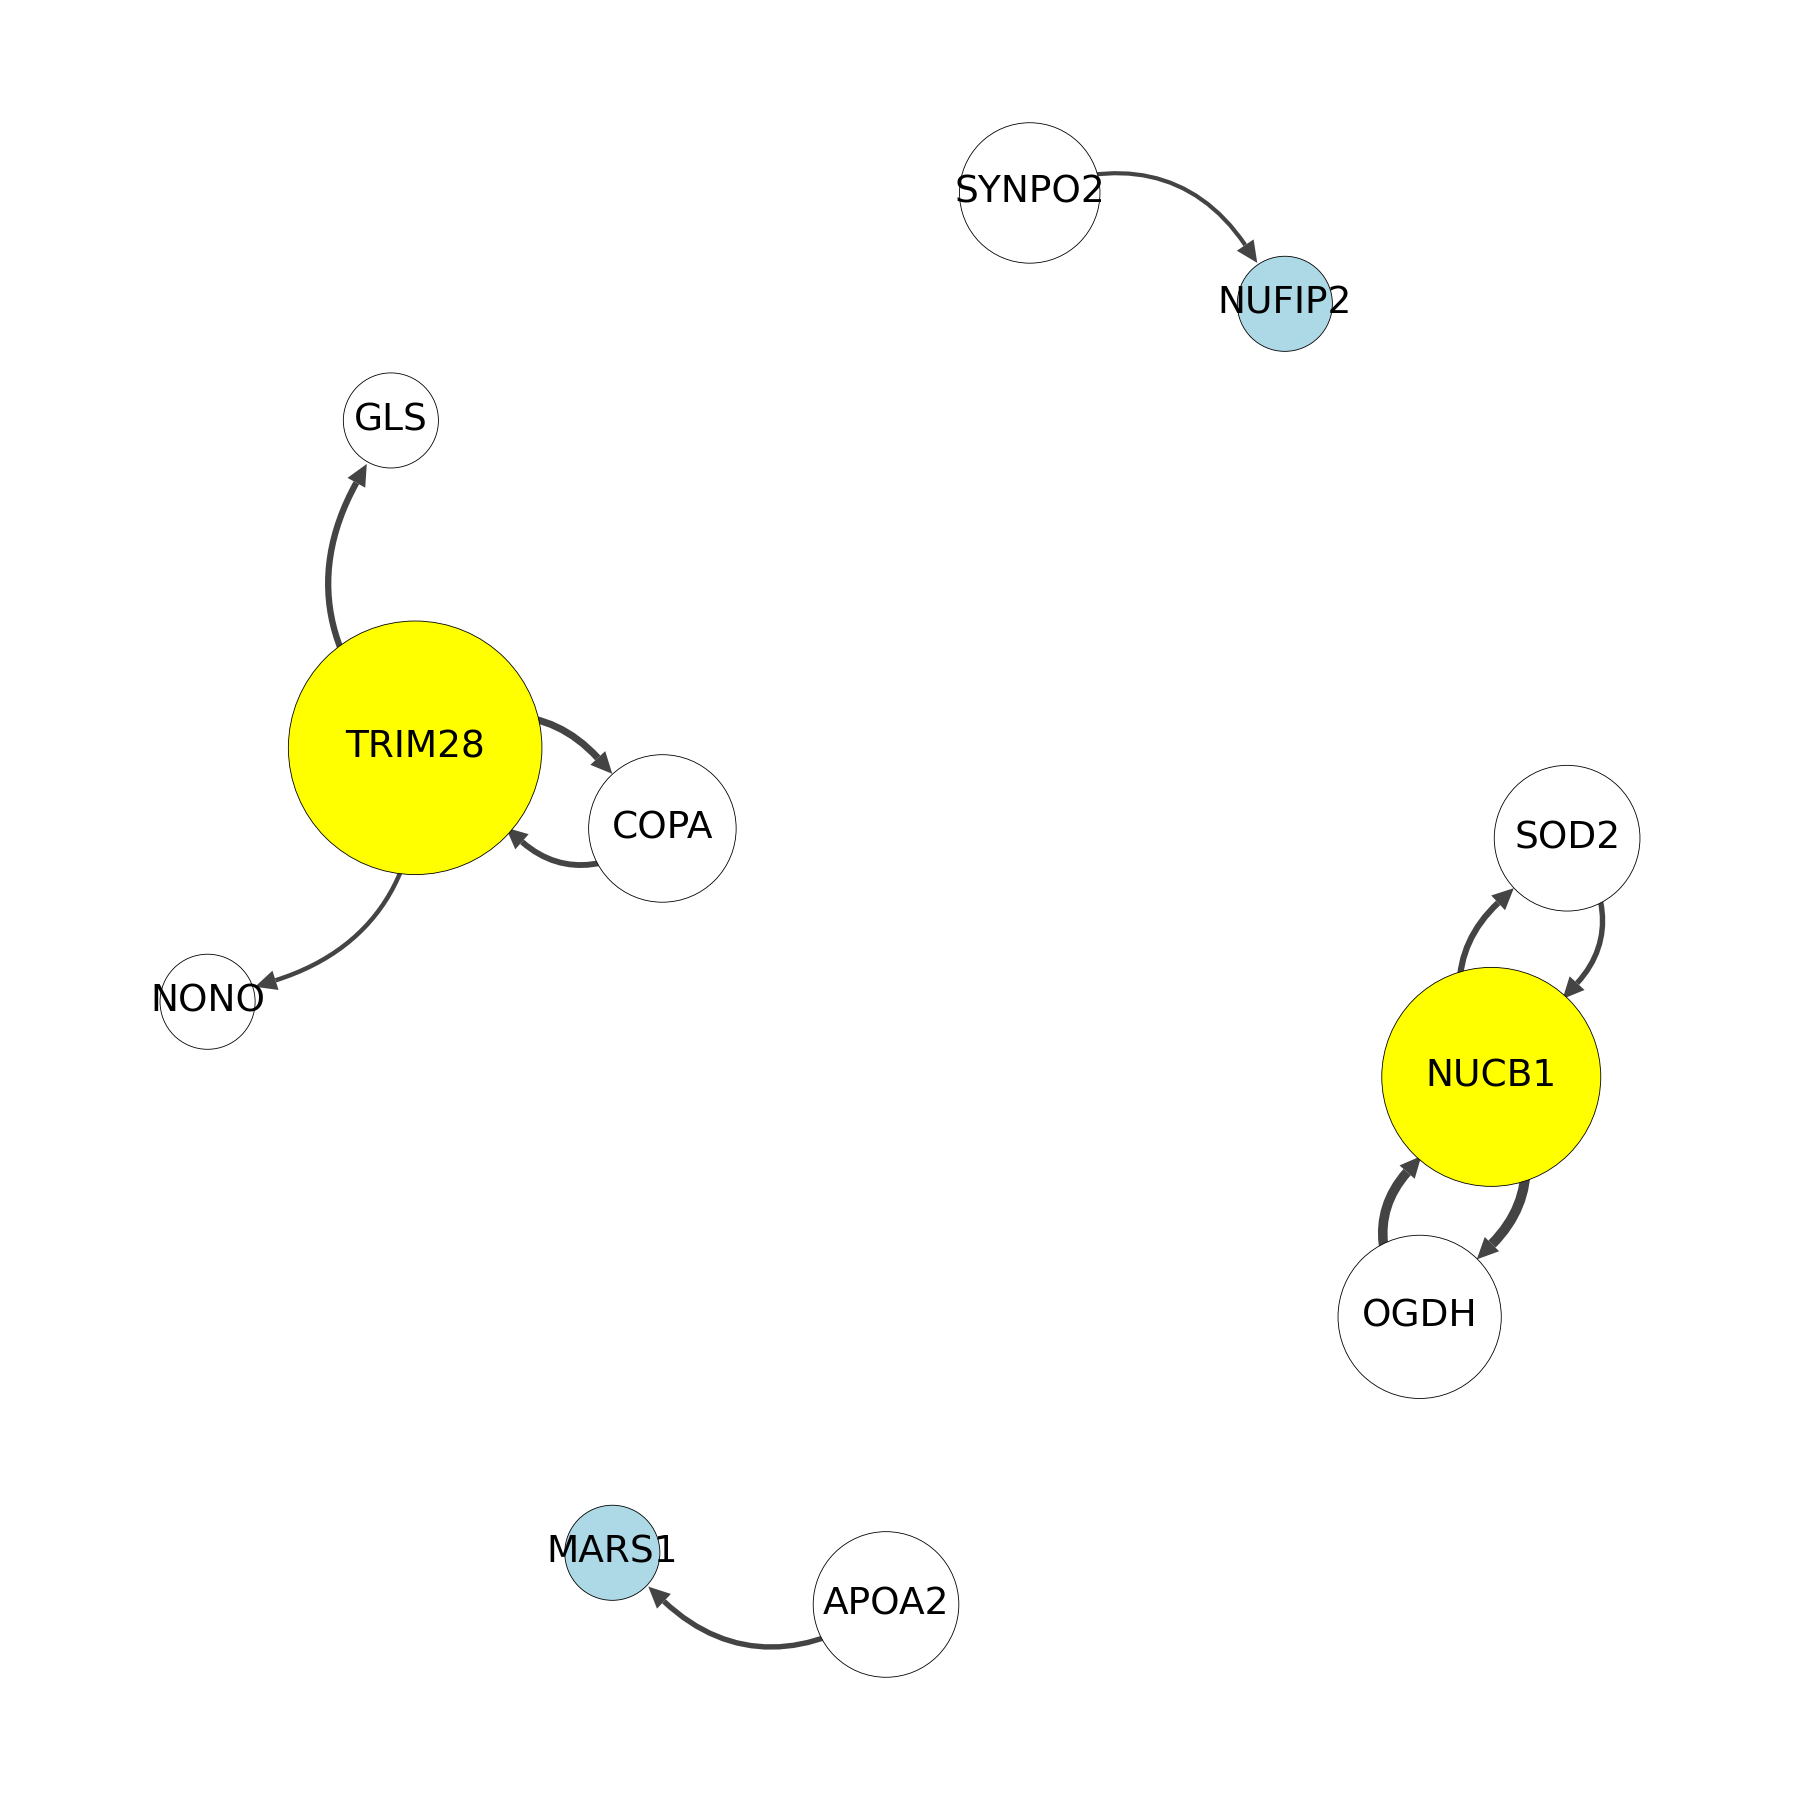
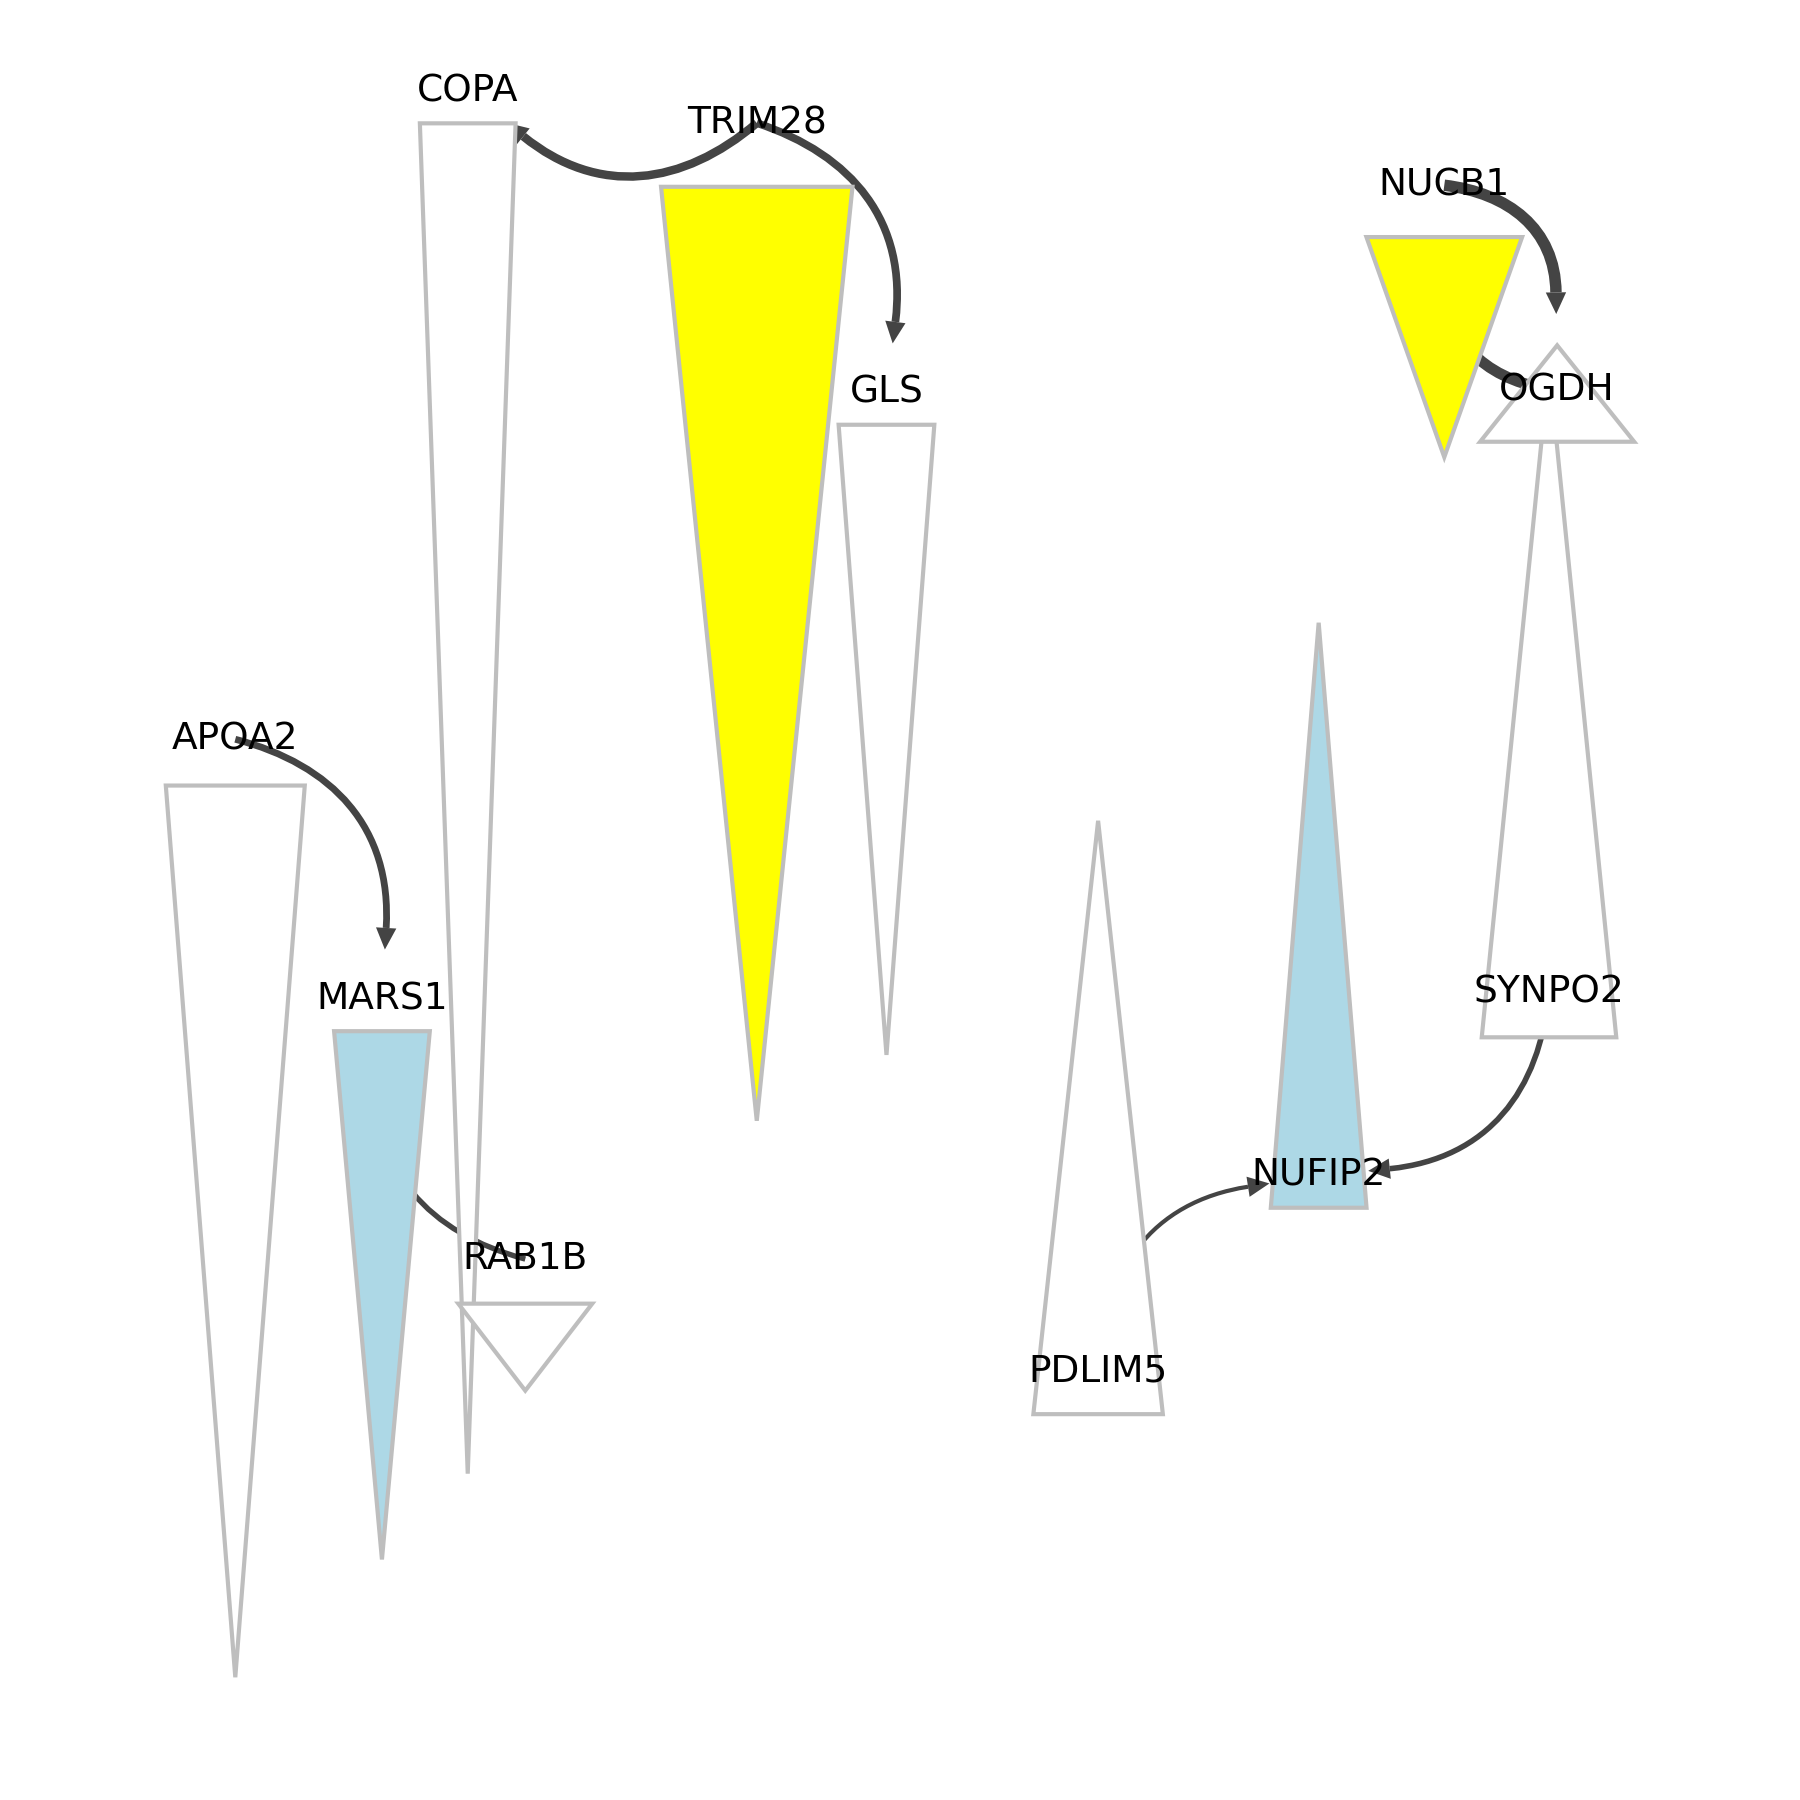
coloring network based on same protein name

diff --git a/scripts/GRN/visualize_network.py b/scripts/GRN/visualize_network.py
@@ -18,11 +18,33 @@ SCRIPT_DIR = os.path.dirname(os.path.abspath(__file__))
 sys.path.append(os.path.dirname(SCRIPT_DIR))
 
 from imports import GRN_VISUALIZE_DIR, VSA_DIR, VSA_NOISE_DIR, F_protnames_to_genenames, F_DE_genenames, F_model_name_2_method_and_DE_type, F_selected_models
-from utils.links import  choose_top_count
+from utils.links import  choose_top_count, normalize_links
 from utils.VSA import RolePlot
 from VSA.analyse_roles import retreive_links_with_genenames
 
-def ig_plot(ax, nodes, edges, model_name, study, target_genes):
+def manual_adjustments_2_graphs(model_name, study, vertex_sizes, edge_weights):
+    #- adjust vertex size (node size)
+    if model_name == 'early_MinProb_portia':
+        if study == 'ctr':
+            scale, base = .4, .4
+        if study == 'mg':
+            scale, base = .3, .3
+    if model_name == 'late_KNN_portia':
+        if study == 'ctr':
+            scale, base = .3, .3
+        if study == 'mg':
+            scale, base = .3, .3
+    def standardize(vector, scale, base):
+        vector = vector - min(vector)
+        vector = vector/max(vector)
+        return scale*vector + base
+
+    vertex_sizes = standardize(vertex_sizes, scale, base)
+    #- adjust edge weight
+    base_edge_weight = 1
+    edge_weights = 4 * (edge_weights - min(edge_weights)) + base_edge_weight
+    return vertex_sizes, edge_weights
+def ig_plot(ax, nodes, edges, model_name, study, target_genes, vertex_shapes):
     """Plot protein connections using igplot"""
     node_names = list(nodes['Protein'].to_numpy())
     F_normalize = lambda vector: vector / np.max(vector)
@@ -30,20 +52,9 @@ def ig_plot(ax, nodes, edges, model_name, study, target_genes):
     node_colors = [RolePlot.roles_colors[role] if (gene in target_genes) else 'white' for gene, role in zip(nodes['Protein'], nodes['Role'])]
     edge_weights = F_normalize(edges['Weight'].to_numpy(float))
     vertex_sizes = F_normalize(nodes['Weight'].to_numpy(float))
-
-    base_vertex_size = 0.3
-    base_edge_weight = 1
-    if model_name == 'day1_21_KNN_portia':
-        if study == 'ctr':
-            base_vertex_size = .15
-        if study == 'mg':
-            base_vertex_size = .2
-
-    vertex_sizes = vertex_sizes/2 + base_vertex_size
-
-    edge_weights =  4*(edge_weights - min(edge_weights))+  base_edge_weight
-
-
+    #- manual adjustement to the sizes
+    vertex_sizes, edge_weights = manual_adjustments_2_graphs(model_name, study, vertex_sizes, edge_weights)
+    #- convert gene-gene weight into edges numbers
     edges_list = [[node_names.index(reg), node_names.index(targ)] for reg, targ in edges.loc[:,['Regulator','Target']].to_numpy(str)]
     # - Construct a graph
     g = ig.Graph(n=len(node_names), edges=edges_list, directed=True)
@@ -55,8 +66,9 @@ def ig_plot(ax, nodes, edges, model_name, study, target_genes):
         layout = layouts[0],
         vertex_size = vertex_sizes,
         vertex_color = node_colors,
-        vertex_frame_width = .2,
-        # vertex_frame_color = vertex_colors,
+        vertex_frame_width = 1,
+        vertex_frame_color = 'grey',
+        vertex_shape = 'triangle',
         vertex_label = node_names,
         vertex_label_size = 9,
         edge_width = edge_weights,
@@ -104,78 +116,24 @@ def ig_plot(ax, nodes, edges, model_name, study, target_genes):
             handles.append(line)
         l3 = ax.legend(loc='upper center', bbox_to_anchor=(.8, -.1), handles=handles, title=size_title, fancybox=False,
                        frameon=False, prop={'size': 10},title_fontproperties={'size': 9,'weight':'bold'})
-
-
-def compare_to_golden_links(links_top, golden_links):
-    l_regs = links_top['Regulator'].to_numpy(str)
-    l_targs = links_top['Target'].to_numpy(str)
-
-    s_regs = golden_links['Regulator'].to_numpy(str)
-    s_targs = golden_links['Target'].to_numpy(str)
-
-    n = 0
-    for reg, target in zip(s_regs, s_targs):
-        if ((l_regs == reg) & (l_targs == target)).any():
-            n += 1
-
-    return n
 def manual_filter(links, model_name, study):
     to_go = []
-    if model_name == 'day1_21_KNN_portia':
-        if study == 'ctr':
-            to_go = [
-                ['Q7Z417', 'P40926'],
-                ['Q7Z417', 'Q14011'],
-                ['P53621', 'Q7Z417'],
-                ['Q7Z417', 'P53621'],
-                ['Q7Z417','P13010'],
-                ['Q7Z417','P62328'],
-                ['Q7Z417','Q9H0U4'],
-                ['Q7Z417','Q15233'],
-                ['P40926', 'Q7Z417'],
-                ['P62328','Q7Z417'],
-                ['Q15843', 'Q7Z417'],
-                ['Q7Z417','Q15843'],
-                ['Q14011', 'Q7Z417'],
-                ['Q15233','Q7Z417'],
-                ['P13010','Q7Z417']
-
-
-
-            ]
-        if study == 'mg':
-            to_go = []
-    if model_name == 'day1_11_KNN_RF':
-        if study == 'ctr':
-            to_go = [
-                    ['O00629', 'Q07866'],
-                    #  ['P67936','Q14011'],
-                     # ['P67936', 'Q9UKY7'],
-                #      ['P67936', 'O00629'],
-                #     ['P67936','Q96C90'],
-                # ['P67936','P67809'],
-                # ['P67936','Q9UN86']
-
-                     ]
-        if study == 'mg':
-            to_go = [['Q3SX28','P67936']]
     for item in to_go:
         links = links.drop(links[(links['Regulator']==item[0]) & (links['Target']==item[1])].index)
-
-        # links.loc[(links['Target'] == item[0]) & (links['Regulator'] == item[1]), 'Weight'] = 0
     return links
 def read_from_file(file_name):
     with open(file_name, 'r') as f:
         data = pd.read_csv(f, index_col=False)
     return data
-def determine_target_genes(model_name):
-    if model_name == 'day1_11_KNN_RF':
-        target_genes = ['P67936', 'Q07866', 'Q9UKY7', 'Q07866']
-    if model_name == 'day1_21_KNN_portia':
-        target_genes = ['P56192', 'Q13263', 'Q7Z417']
-    return target_genes
-def filter_target_genes(links, target_genes):
+def filter_links_for_target_genes(links, target_genes):
     return links.loc[(links['Target'].isin(target_genes)) | (links['Regulator'].isin(target_genes)), :]
+def choose_top_n_links_connected_2_target_genes(links, target_genes, top_n):
+    links_target_gene_shortlisted_all = []
+    for target_gene in target_genes:
+        links_target_gene = links.loc[(links['Target']==target_gene) | (links['Regulator']==target_gene), :]
+        links_target_gene_shortlisted = choose_top_count(links_target_gene, top_n)
+        links_target_gene_shortlisted_all.append(links_target_gene_shortlisted)
+    return pd.concat(links_target_gene_shortlisted_all, axis=0, ignore_index=True)
 def create_nodes(edges, model_name, study):
     #- extract gene names
     gene_names = edges.loc[:, ['Regulator', 'Target']].to_numpy(str)
@@ -199,7 +157,7 @@ if __name__ == '__main__':
     # - parse the arguments
     parser = argparse.ArgumentParser()
     parser.add_argument('--studies', nargs='+', default=['ctr', 'mg'])
-    parser.add_argument('--top_n_links', type=int, default=10, help='Number of top links to be visualized')
+    parser.add_argument('--top_n_links', type=int, default=2, help='Number of links connected to each target proteins to be visualized')
     args, remaining_args = parser.parse_known_args()
 
     studies = args.studies
@@ -216,6 +174,9 @@ if __name__ == '__main__':
     # - read the links and store it for selected models
     links_all: Dict[str, List[pd.DataFrame]] = retreive_links_with_genenames(selected_models,
                                                                              F_protnames_to_genenames(), studies)
+    #- standardize links
+    links_all = {key: [normalize_links(links) for links in links_stack] for key, links_stack in links_all.items()}
+    node_shapes = ['rectangle']
     #- for each selected model, draw the network
     for model_name in selected_models:
         target_genes= target_genes_all[model_name]
@@ -224,15 +185,16 @@ if __name__ == '__main__':
             #- retireve links
             links = links_all[model_name][i_study]
             #- filter it
-            links = filter_target_genes(links, target_genes) #- choose only those connected with target genes
-            links = manual_filter(links, model_name, study) #- remove to make plot look better
-            links = choose_top_count(links, top_n_links) #- choose top n links
+            # links = filter_links_for_target_genes(links, target_genes) #- choose only those connected with target genes
+            # links = manual_filter(links, model_name, study) #- remove to make plot look better
+            # links = choose_top_count(links, top_n_links) #- choose top n links
+            links = choose_top_n_links_connected_2_target_genes(links, target_genes, top_n_links)
 
             #- plot
             edges = links
             nodes = create_nodes(edges, model_name, study)
             fig, ax = plt.subplots(1, 1, figsize=(6,6), tight_layout=True)
-            ig_plot(ax, nodes, edges, model_name, study, target_genes)
+            ig_plot(ax, nodes, edges, model_name, study, target_genes, node_shapes)
             fig.savefig(Path(GRN_VISUALIZE_DIR) / f'GRN_{model_name}_{study}.pdf', bbox_inches='tight')
             fig.savefig(Path(GRN_VISUALIZE_DIR) / f'GRN_{model_name}_{study}.png', dpi=300, transparent=True)
 
